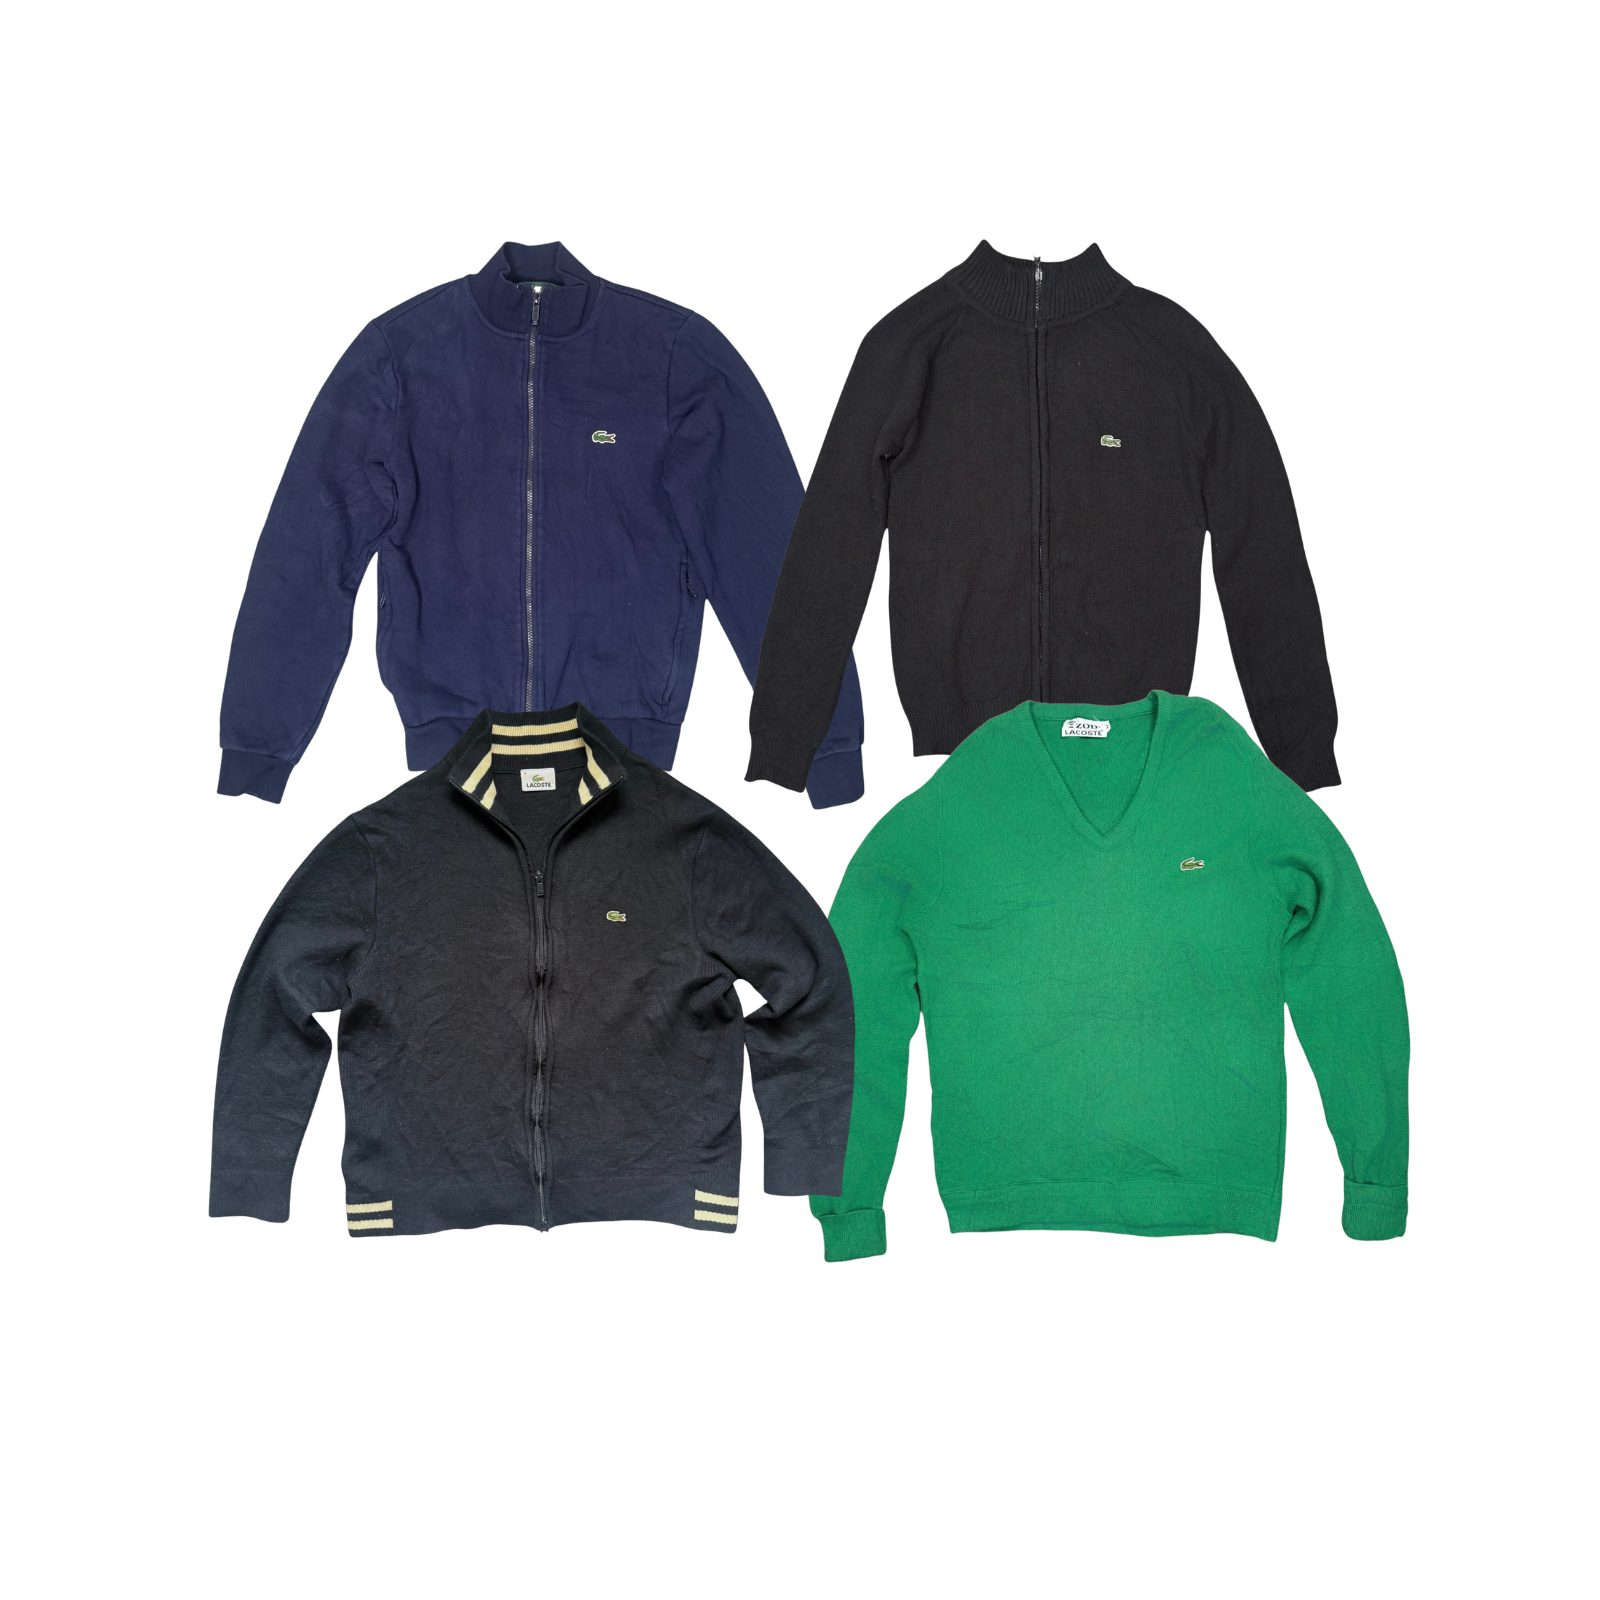
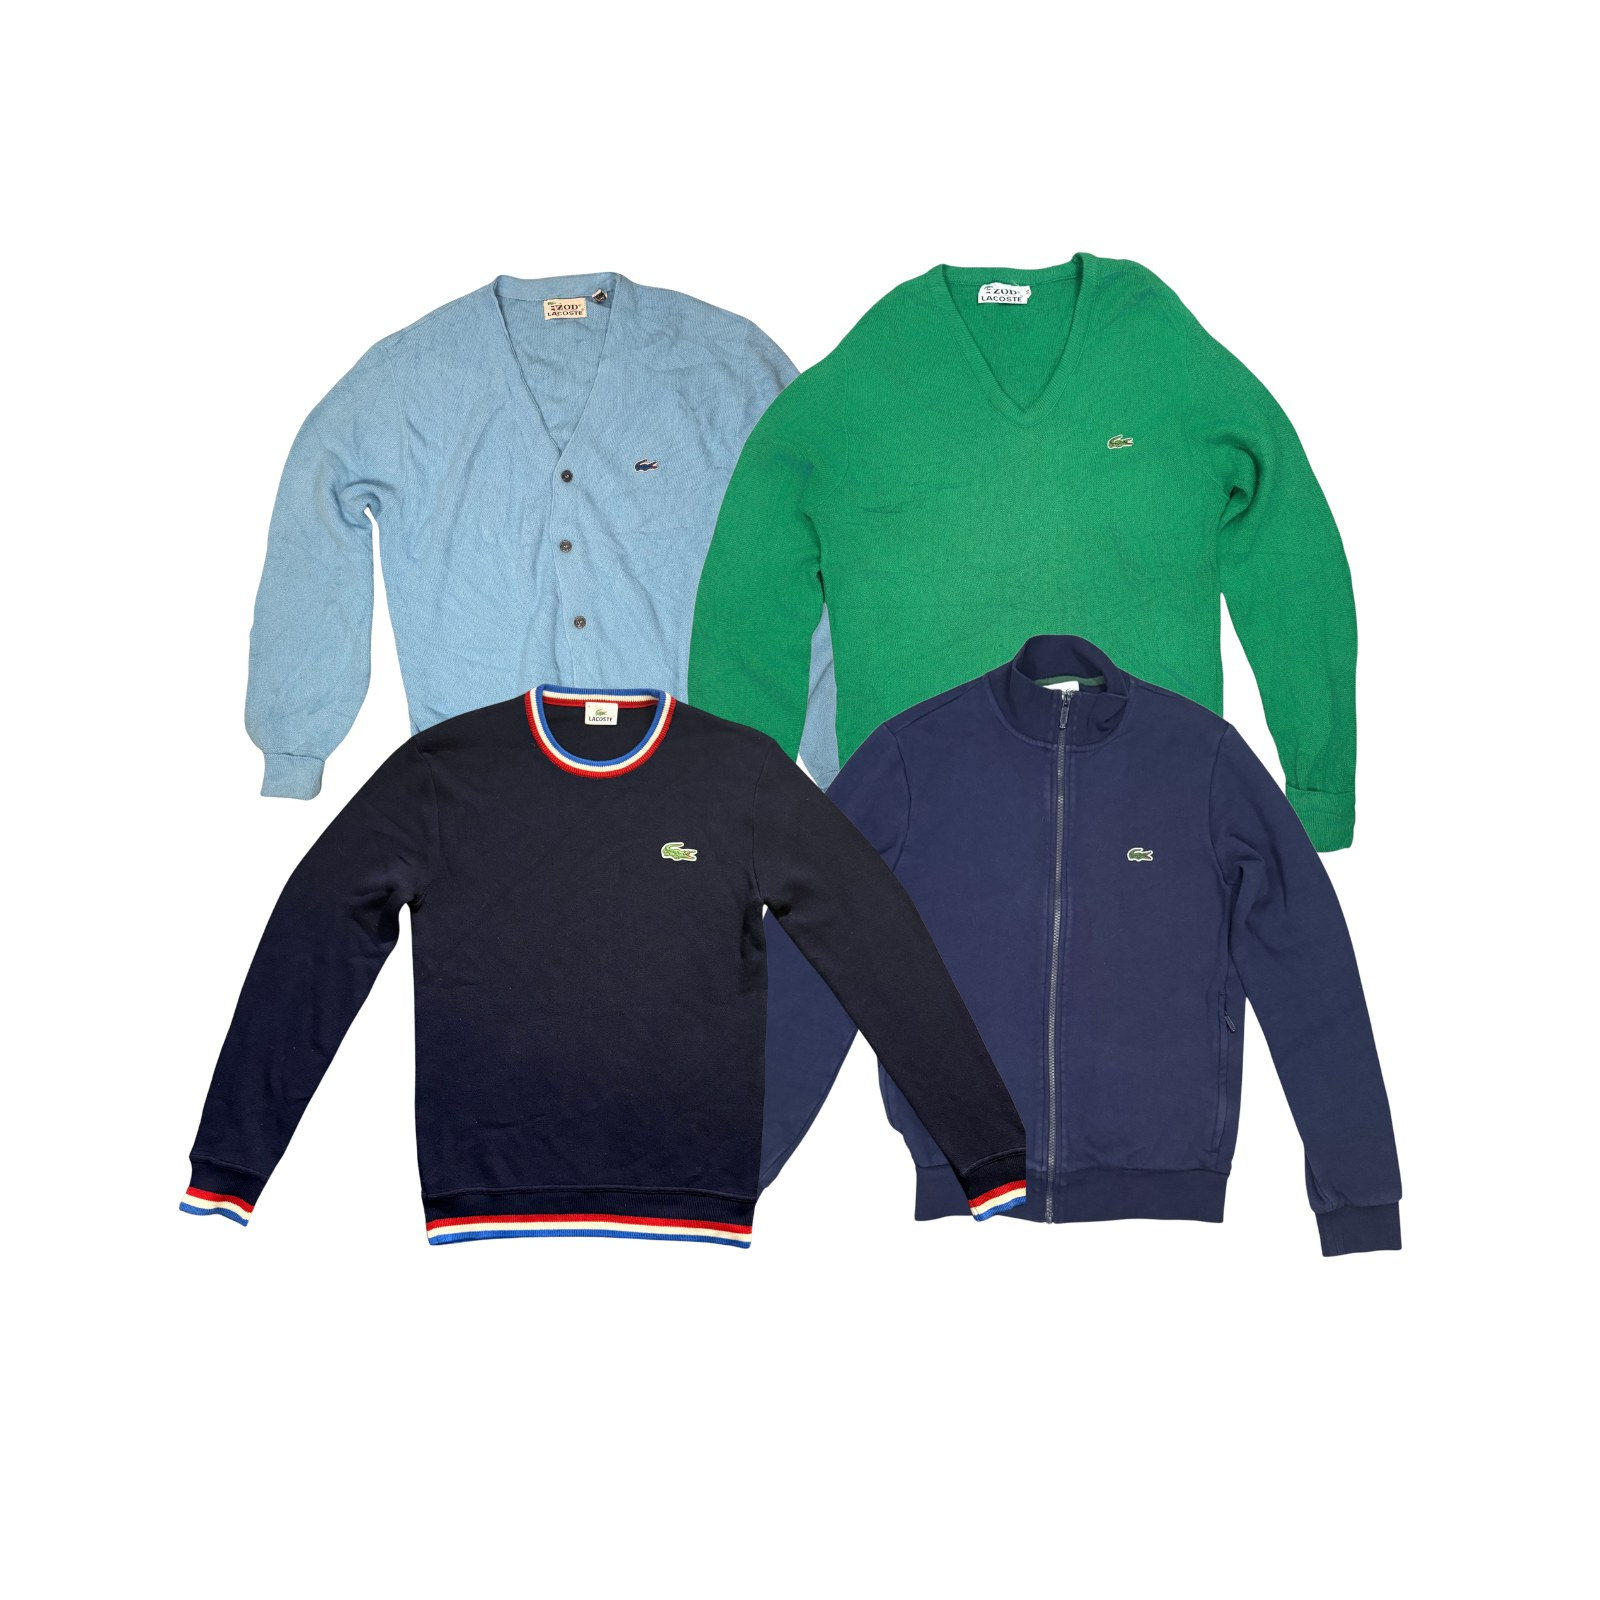
Lacoste Knitwear becomes Lacoste Jumpers & Cardigans; festival jackets get the rail clip
The new knitwear lot takes over the established Lacoste Jumpers & Cardigans
name and address, keeping that page's search history and its place in the
home page popular lots. The old Jumpers & Cardigans lot (£10 / £9 / £8.50,
graded 70/30) is retired; the new lot is £12 / £11 / £10, graded roughly
85% A. /products/lacoste-knitwear, /products/mixed-mens-lacoste and the
older "-25" address all redirect permanently to it.

Festival Track Jackets now carries the same rail clip as the Jackets &
Windbreaker Mix, since the owner shoots the two as one line.

Claude-Session: https://claude.ai/code/session_01Px7wihV8B29XtPVFg8uA4F

diff --git a/site/src/data/catalogue.ts b/site/src/data/catalogue.ts
@@ -396,30 +396,6 @@ const catalogue: Product[] = [
   {
     slug: "lacoste-jumpers-cardigans",
     name: "Lacoste Jumpers & Cardigans",
-    summary: "Croc-branded knitwear, in tens, twenty-fives and fifties.",
-    description: [
-      "Lacoste knitwear — crew and v-neck jumpers, zip-through cardigans and patterned knits, all croc-branded.",
-      "Knitwear sells slower than jersey but holds its ticket, and the croc does the work on the label. Available in ten, twenty-five or fifty, so you can buy for a season rather than a weekend.",
-    ],
-    brandSlugs: ["lacoste"],
-    typeSlugs: ["jumpers-sweats"],
-    collectionSlugs: ["premium-vintage", "winter"],
-    variants: [at(10, 10), at(25, 9), at(50, 8.5)],
-    unit: "pieces",
-    notes: [],
-    art: "diagonal-green-2",
-    photos: [
-      {
-        src: "/images/products/lacoste-jumpers-cardigans/01.jpg",
-        alt: "Four Lacoste knits laid flat on white: a navy zip-through cardigan, a black zip cardigan, a black zip knit with cream striped collar and cuffs, and a green v-neck jumper.",
-      },
-    ],
-    inStock: true,
-    featured: true,
-  },
-  {
-    slug: "lacoste-knitwear",
-    name: "Lacoste Knitwear",
     summary: "Croc-logo jumpers and cardigans, graded around 85% A, in tens, twenty-fives and fifties.",
     description: [
       "Lacoste knitwear on its own — crew and v-neck jumpers, button and zip cardigans, patterned knits — every piece with the croc on the chest.",
@@ -436,15 +412,15 @@ const catalogue: Product[] = [
     art: "grid-ink",
     photos: [
       {
-        src: "/images/products/lacoste-knitwear/01.jpg",
+        src: "/images/products/lacoste-jumpers-cardigans/01.jpg",
         alt: "Four Lacoste knits laid flat on white: a pale blue IZOD Lacoste button cardigan, a green v-neck jumper, a navy crew with red, white and blue tipping, and a navy zip-through with the croc on the chest.",
       },
     ],
     videos: [
       {
-        src: "/videos/products/lacoste-knitwear/01.mp4",
-        poster: "/videos/products/lacoste-knitwear/01-poster.jpg",
-        alt: "A look through the Lacoste Knitwear lot, turned over piece by piece: a navy button cardigan, a navy quarter-zip knit and a black crew, each with the croc on the chest.",
+        src: "/videos/products/lacoste-jumpers-cardigans/01.mp4",
+        poster: "/videos/products/lacoste-jumpers-cardigans/01-poster.jpg",
+        alt: "A look through the Lacoste Jumpers & Cardigans lot, turned over piece by piece: a navy button cardigan, a navy quarter-zip knit and a black crew, each with the croc on the chest.",
       },
     ],
     inStock: true,
@@ -471,6 +447,15 @@ const catalogue: Product[] = [
       {
         src: "/images/products/festival-track-jackets/01.jpg",
         alt: "Four festival track jackets on white: a blue and pink Reebok shell, a black and white Adidas taped track top, a navy and red Nike shell and a purple Adidas trefoil jacket.",
+      },
+    ],
+    // The same rail as the Jackets & Windbreaker Mix: the owner shoots these
+    // jackets as one line, so both pages carry the clip.
+    videos: [
+      {
+        src: "/videos/products/jackets-windbreaker-mix/01.mp4",
+        poster: "/videos/products/jackets-windbreaker-mix/01-poster.jpg",
+        alt: "A look through the festival jacket rail, turned over piece by piece: a navy, white and green Nike shell jacket, a green Champion half-zip pullover and layered branded windbreakers.",
       },
     ],
     inStock: true,

diff --git a/site/next.config.ts b/site/next.config.ts
@@ -9,9 +9,11 @@ const nextConfig: NextConfig = {
   // so they redirect permanently rather than 404.
   async redirects() {
     return [
-      { source: "/products/mixed-mens-lacoste-25", destination: "/products/lacoste-knitwear", permanent: true },
-      // Mixed Men's Lacoste was replaced by the Lacoste Knitwear lot.
-      { source: "/products/mixed-mens-lacoste", destination: "/products/lacoste-knitwear", permanent: true },
+      { source: "/products/mixed-mens-lacoste-25", destination: "/products/lacoste-jumpers-cardigans", permanent: true },
+      // Mixed Men's Lacoste was folded into Lacoste Jumpers & Cardigans, which
+      // was briefly listed as "lacoste-knitwear" before taking the older address.
+      { source: "/products/mixed-mens-lacoste", destination: "/products/lacoste-jumpers-cardigans", permanent: true },
+      { source: "/products/lacoste-knitwear", destination: "/products/lacoste-jumpers-cardigans", permanent: true },
       { source: "/products/y2k-designer-female-mix-box-20", destination: "/products/y2k-designer-female-mix-box", permanent: true },
       { source: "/products/y2k-designer-male-mix-box-20", destination: "/products/designer-male-mix-box", permanent: true },
       // The men's box was briefly at this address before "Y2K" came out of its name.

diff --git a/site/src/data/taxonomy.ts b/site/src/data/taxonomy.ts
@@ -456,7 +456,7 @@ export const collections: Category[] = [
     seoCopy:
       "Men's vintage wholesale — designer and sportswear lots across Lacoste, Ralph Lauren, Stone Island, Nike and Champion, in lots of ten, twenty-five or fifty.",
     art: "blocks-ink-2",
-    photoFrom: "lacoste-knitwear",
+    photoFrom: "lacoste-jumpers-cardigans",
   },
 ];
 
